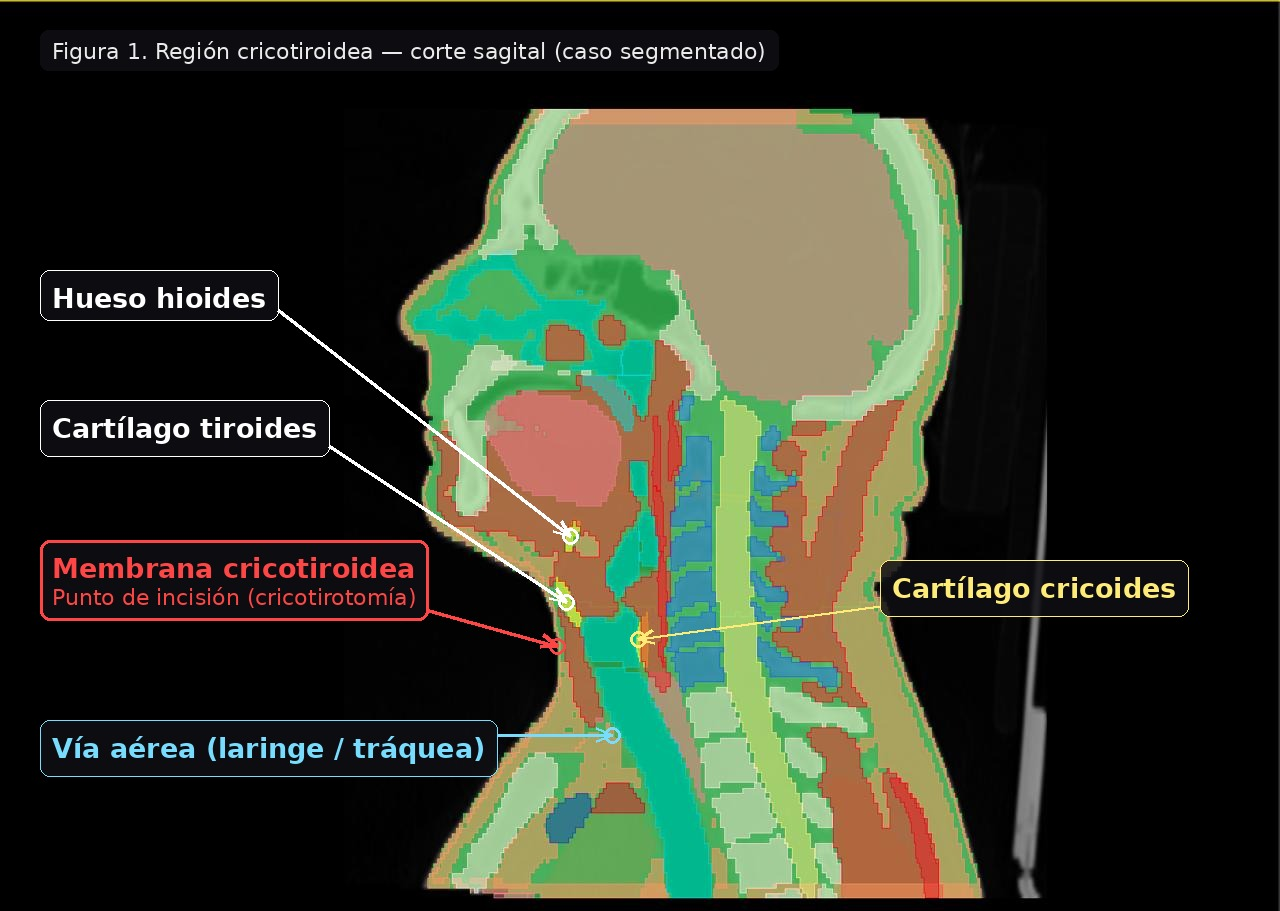
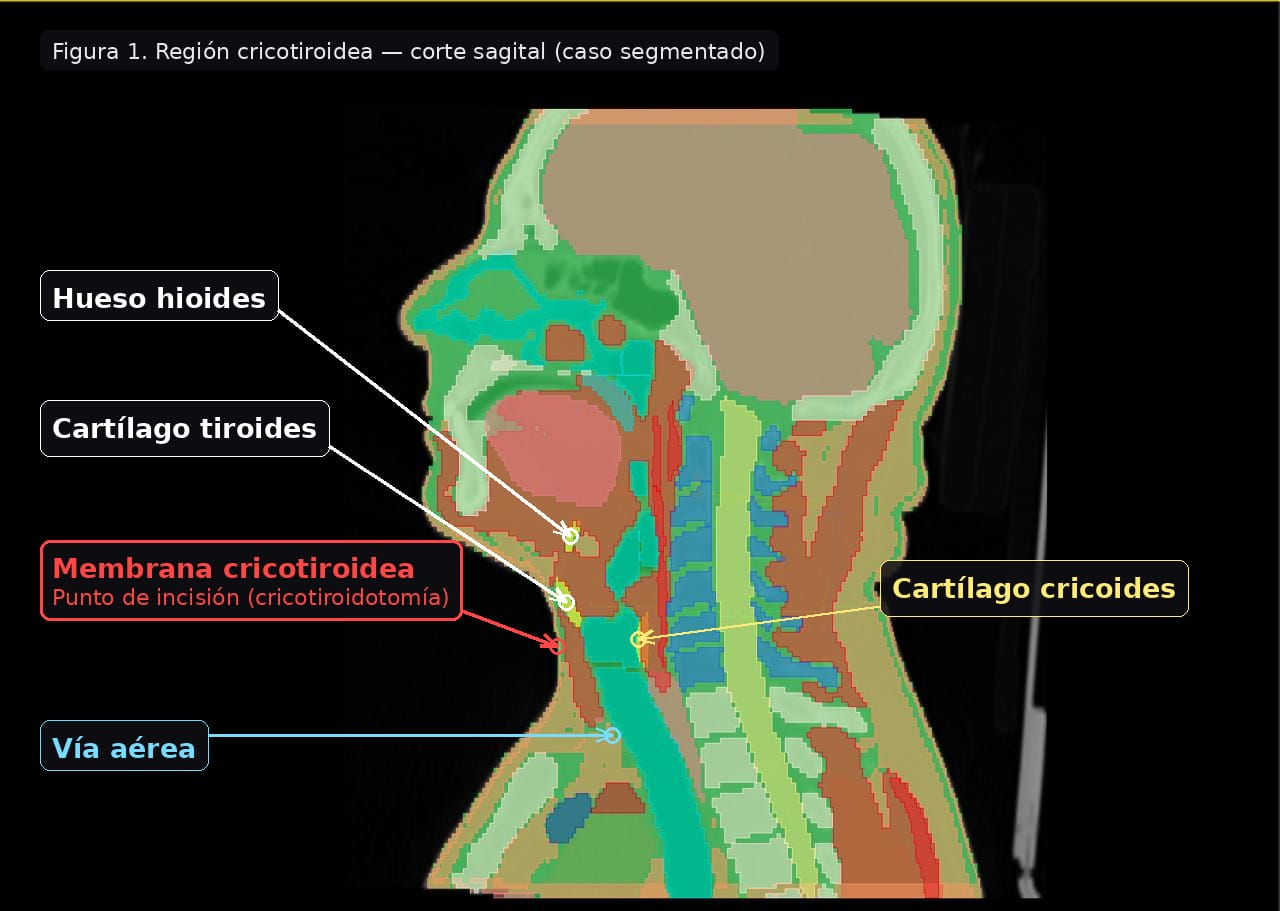
fix: update chapter descriptions and improve figure integration for clarity

Changed region(s): [[0.0312, 0.7991, 0.4062, 0.8606], [0.25, 0.584, 0.4375, 0.7069]]

diff --git a/docs/Memoria/diagramas/etapas-solucion.tex b/docs/Memoria/diagramas/etapas-solucion.tex
@@ -1,0 +1,60 @@
+\documentclass[border=8pt]{standalone}
+\usepackage[T1]{fontenc}
+\usepackage[utf8]{inputenc}
+\usepackage{mathptmx}          % Times, para coincidir con el cuerpo del informe
+\usepackage{xcolor}
+\usepackage{tikz}
+\usetikzlibrary{positioning,arrows.meta,calc,fit,backgrounds,decorations.pathreplacing}
+
+% Paleta (coincide con diagramas/arquitectura.pdf)
+\definecolor{localFill}{HTML}{E8EEF6}
+\definecolor{localDraw}{HTML}{2F5496}
+\definecolor{extFill}{HTML}{F0F0F0}
+\definecolor{extDraw}{HTML}{7A7A7A}
+\definecolor{arrowCol}{HTML}{3A3A3A}
+
+\begin{document}
+\begin{tikzpicture}[
+  font=\small,
+  box/.style={draw=localDraw, line width=0.8pt, rounded corners=3pt, fill=localFill,
+              align=center, text width=3.2cm, minimum height=1.9cm, inner sep=5pt},
+  extbox/.style={draw=extDraw, line width=0.8pt, dashed, rounded corners=3pt, fill=extFill,
+              align=center, text width=3.2cm, minimum height=1.9cm, inner sep=5pt},
+  flow/.style={-{Stealth[length=3mm,width=2.5mm]}, line width=1.0pt, draw=arrowCol},
+  lettr/.style={font=\bfseries\small, text=localDraw, anchor=south},
+  lettrext/.style={font=\bfseries\small, text=extDraw, anchor=south},
+]
+
+% ---- Las cuatro etapas ----
+\node[box]                    (a) at (0,0) {Ingreso de la TC\\\scriptsize(formato NIfTI)};
+\node[box, right=1.5cm of a]  (b)          {Segmentación automática\\\scriptsize(estructuras del cuello y la vía aérea)};
+\node[box, right=1.5cm of b]  (c)          {Exportación a STL\\\scriptsize(una por estructura, color según tejido)};
+\node[extbox, right=1.5cm of c] (d)        {Preparación en el laminador\\\scriptsize(impresión 3D)};
+
+% ---- Etiquetas a) b) c) d) ----
+\node[lettr]    at ([yshift=4pt]a.north) {a)};
+\node[lettr]    at ([yshift=4pt]b.north) {b)};
+\node[lettr]    at ([yshift=4pt]c.north) {c)};
+\node[lettrext] at ([yshift=4pt]d.north) {d)};
+
+% ---- Flujo ----
+\draw[flow] (a) -- (b);
+\draw[flow] (b) -- (c);
+\draw[flow] (c) -- (d);
+
+% ---- Brackets de módulos (debajo) ----
+\draw[decorate, decoration={brace, amplitude=6pt, mirror}, line width=0.8pt, draw=localDraw]
+  ($(a.south west)+(0,-0.35)$) -- ($(b.south east)+(0,-0.35)$);
+\node[font=\scriptsize\bfseries, text=localDraw, anchor=north]
+  at ($(a.south)!0.5!(b.south)+(0,-0.85)$) {MÓDULO DE SEGMENTACIÓN};
+
+\draw[decorate, decoration={brace, amplitude=6pt, mirror}, line width=0.8pt, draw=localDraw]
+  ($(c.south west)+(0,-0.35)$) -- ($(c.south east)+(0,-0.35)$);
+\node[font=\scriptsize\bfseries, text=localDraw, anchor=north]
+  at ($(c.south)+(0,-0.85)$) {MÓDULO DE CORTE};
+
+\node[font=\scriptsize\itshape, text=extDraw, anchor=north]
+  at ($(d.south)+(0,-0.5)$) {externo al sistema};
+
+\end{tikzpicture}
+\end{document}

diff --git a/docs/Memoria/chapters/chapter02.tex b/docs/Memoria/chapters/chapter02.tex
@@ -7,9 +7,12 @@ Frente a la falta de fantomas anatómicamente diversos para el entrenamiento de 
 
 El sistema se organiza en cuatro etapas: a) ingreso de la TC en formato NIfTI; b) segmentación automática de las estructuras anatómicas relevantes para la vía aérea y el cuello (vértebras cervicales, cartílagos, tráquea, músculos, glándulas y tejidos blandos, entre otras); c) exportación de cada estructura segmentada a un archivo STL independiente, con asignación de color según el tipo de tejido; y d) preparación de los archivos STL en el laminador para su impresión. Estas cuatro etapas se exponen al usuario final a través de dos módulos personalizados de 3D Slicer, que ocultan la complejidad interna del flujo (ejecución remota en GPU, consolidación de segmentos, mapeo de colores) detrás de una interfaz simple.\\
 
-% SUGERENCIA DE FIGURA — diagrama de las cuatro etapas (a–d) de la solución.
-% Ubicación recomendada: aquí, inmediatamente después de enunciarlas.
-% Figura recomendada: un diagrama de las cuatro etapas a–d, justo después de enunciarlas. Es distinto del diagrama de arquitectura de ch03: este es conceptual (qué hace el sistema), aquel es técnico (cómo fluyen los datos). Dejé el comentario marcado.
+\begin{figure}[h]
+  \centering
+  \includegraphics[width=0.95\textwidth]{diagramas/etapas-solucion.pdf}
+  \caption{Las cuatro etapas de la solución. Las dos primeras las cubre el módulo de segmentación; la tercera, el módulo de corte; la preparación en el laminador queda fuera del sistema.}
+  \label{fig:etapas-solucion}
+\end{figure}
 
 Para la etapa de segmentación automática se evaluaron tres alternativas (TotalSegmentator, MedSAM y YOLO) sobre una base de diez casos de cuello, contrastando su salida contra una segmentación de referencia elaborada por un radiólogo especialista. De esa evaluación se seleccionó TotalSegmentator \citep{wasserthal2023totalsegmentator} como motor de segmentación de la solución. El detalle de la comparación, y una limitación relevante en la naturaleza de la referencia empleada, se exponen en el Capítulo~\ref{ch:resultados}.\\
 